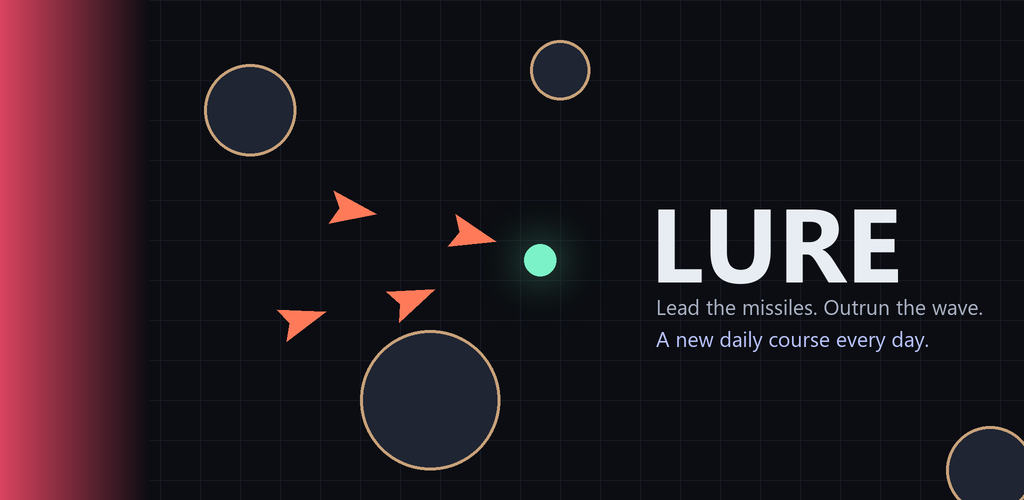
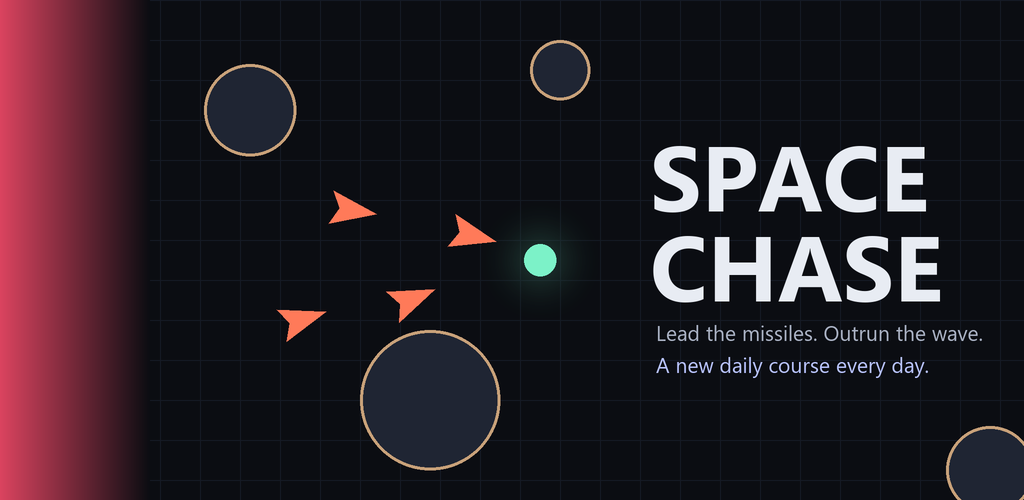
Rename the game to Space Chase; host-agnostic web build and subdomain hosting guide
Player-facing name, app name, store listing, feature graphic and build outputs (release/space-chase.*).
Save-data keys and the app ID stay as they were, so existing saves survive.
API fetches are relative, so a static host never sees requests to its root.

Changed region(s): [[0.625, 0.27, 0.9688, 0.63], [0.625, 0.66, 0.9688, 0.75]]

diff --git a/tools/build-android.js b/tools/build-android.js
@@ -1,6 +1,6 @@
 // Builds the Android app from the already-synced android/ project.
-//   npm run android           → release/lure.apk, a debug build you can install directly (or push with adb)
-//   npm run android:release   → release/lure.aab, the signed bundle Google Play wants (needs android/keystore.properties)
+//   npm run android           → release/space-chase.apk, a debug build you can install directly (or push with adb)
+//   npm run android:release   → release/space-chase.aab, the signed bundle Google Play wants (needs android/keystore.properties)
 // Needs Android Studio: its bundled Java and the SDK in the default places (override with JAVA_HOME / ANDROID_HOME).
 const fs = require('fs'), path = require('path'), { execSync } = require('child_process');
 const ROOT = path.join(__dirname, '..'), ANDROID = path.join(ROOT, 'android');
@@ -23,8 +23,8 @@ const gradlew = path.join(ANDROID, win ? 'gradlew.bat' : 'gradlew');
 execSync(`"${gradlew}" ${release ? 'bundleRelease' : 'assembleDebug'} --console=plain`, { cwd: ANDROID, stdio: 'inherit', env: { ...process.env, JAVA_HOME: javaHome } });
 
 const [from, to] = release
-  ? [path.join(ANDROID, 'app', 'build', 'outputs', 'bundle', 'release', 'app-release.aab'), 'lure.aab']
-  : [path.join(ANDROID, 'app', 'build', 'outputs', 'apk', 'debug', 'app-debug.apk'), 'lure.apk'];
+  ? [path.join(ANDROID, 'app', 'build', 'outputs', 'bundle', 'release', 'app-release.aab'), 'space-chase.aab']
+  : [path.join(ANDROID, 'app', 'build', 'outputs', 'apk', 'debug', 'app-debug.apk'), 'space-chase.apk'];
 fs.mkdirSync(path.join(ROOT, 'release'), { recursive: true });
 fs.copyFileSync(from, path.join(ROOT, 'release', to));
 console.log(`release/${to} (${(fs.statSync(from).size / 1e6).toFixed(1)} MB)`);

diff --git a/serve.js b/serve.js
@@ -34,14 +34,14 @@ http.createServer((req, res) => {
     return res.end(JSON.stringify(readLog()));
   }
   serveFile(req, res);
-}).listen(PORT, HOST, () => console.log(`Lure${DIST ? ' (player build)' : ''} on http://${HOST}:${PORT}`));
+}).listen(PORT, HOST, () => console.log(`Space Chase${DIST ? ' (player build)' : ''} on http://${HOST}:${PORT}`));
 
 function serveFile(req, res) {
   let p = decodeURIComponent(req.url.split('?')[0]);
   if (p === '/') p = '/index.html';
-  // The Android build (npm run android) is offered for download next to the game: open /lure.apk on the phone.
-  const file = p === '/lure.apk' ? path.join(__dirname, 'release', 'lure.apk') : path.join(ROOT, p);
-  if (!file.startsWith(ROOT) && p !== '/lure.apk') return res.writeHead(403).end();
+  // The Android build (npm run android) is offered for download next to the game: open /space-chase.apk on the phone.
+  const file = p === '/space-chase.apk' ? path.join(__dirname, 'release', 'space-chase.apk') : path.join(ROOT, p);
+  if (!file.startsWith(ROOT) && p !== '/space-chase.apk') return res.writeHead(403).end();
   fs.readFile(file, (err, data) => {
     if (err) return res.writeHead(404).end();
     res.writeHead(200, { 'content-type': TYPES[path.extname(file)] || 'application/octet-stream', 'cache-control': 'no-store' });

diff --git a/game/core/storage.js b/game/core/storage.js
@@ -14,7 +14,7 @@ function saveLocal(log) { mem.log = log; try { localStorage.setItem(LOG_KEY, JSO
 export async function loadServerLog() {
   let entries = loadLocal();
   // The highest run number, not the count: runs started but never saved leave gaps.
-  try { entries = await (await fetch('/api/log')).json(); progress.serverRuns = Math.max(entries.length, ...entries.map(e => e.run || 0)); } catch {}
+  try { entries = await (await fetch('api/log')).json(); progress.serverRuns = Math.max(entries.length, ...entries.map(e => e.run || 0)); } catch {}
   for (const e of entries) if (e.version === VERSION && !e.invalid) noteArenaReached(e.telemetry.arenaReached);
   return entries;
 }
@@ -38,7 +38,7 @@ export function nextRunIndex() {
 export function appendEntry(entry) {
   saveLocal([...loadLocal(), entry]);
   progress.serverRuns = Math.max(progress.serverRuns, entry.run);
-  fetch('/api/log', { method: 'POST', headers: { 'content-type': 'application/json' }, body: JSON.stringify(entry) }).catch(() => {});
+  fetch('api/log', { method: 'POST', headers: { 'content-type': 'application/json' }, body: JSON.stringify(entry) }).catch(() => {});
 }
 
 export const runsLogged = () => Math.max(loadLocal().length, progress.serverRuns);

diff --git a/game/index.html b/game/index.html
@@ -7,11 +7,11 @@
 <meta name="mobile-web-app-capable" content="yes">
 <meta name="apple-mobile-web-app-capable" content="yes">
 <meta name="apple-mobile-web-app-status-bar-style" content="black-translucent">
-<meta name="description" content="Lure: you can't attack. Lead the missiles chasing you into rocks, walls and each other. A new daily course every day.">
+<meta name="description" content="Space Chase: you can't attack. Lead the missiles chasing you into rocks, walls and each other. A new daily course every day.">
 <link rel="manifest" href="manifest.webmanifest">
 <link rel="icon" href="icons/icon-192.png">
 <link rel="apple-touch-icon" href="icons/icon-192.png">
-<title>Lure</title>
+<title>Space Chase</title>
 <style>
 :root{--bg:#0b0d12;--fg:#e8ecf3;--dim:#8a93a6;--panel:#151925;--accent:#7cf2c8;--line:#2a3142;--warn:#ff6b5b;--ghost:#b9c4ff}
 html,body{margin:0;height:100%;background:var(--bg);color:var(--fg);font:14px/1.45 system-ui,-apple-system,Segoe UI,sans-serif;overflow:hidden;

diff --git a/game/privacy.html b/game/privacy.html
@@ -3,7 +3,7 @@
 <head>
 <meta charset="utf-8">
 <meta name="viewport" content="width=device-width,initial-scale=1">
-<title>Lure: Privacy Policy</title>
+<title>Space Chase: Privacy Policy</title>
 <style>
 :root{--bg:#0b0d12;--fg:#e8ecf3;--dim:#8a93a6;--accent:#7cf2c8}
 body{margin:0;background:var(--bg);color:var(--fg);font:16px/1.6 system-ui,-apple-system,Segoe UI,sans-serif}
@@ -16,10 +16,10 @@ a{color:var(--accent)}
 </head>
 <body>
 <main>
-<h1>Lure: Privacy Policy</h1>
+<h1>Space Chase: Privacy Policy</h1>
 <p class="dim">Last updated: 4 November 2026</p>
 
-<p>Lure is a single-player game. It does not collect, send or share any personal data.</p>
+<p>Space Chase is a single-player game. It does not collect, send or share any personal data.</p>
 
 <h2>What the game stores</h2>
 <p>Your scores, today's best run (the "ghost"), your day streak and your settings are stored <b>only on your device</b>.

diff --git a/tools/build-web.js b/tools/build-web.js
@@ -44,7 +44,7 @@ fs.writeFileSync(path.join(OUT, 'index.html'), html);
 fs.writeFileSync(path.join(OUT, 'sw.js'), `// Generated by tools/build-web.js. The whole game is precached, so it runs offline.
 // Cache-first for everything, so a page and its modules always come from the same version; a new version is
 // fetched in the background and takes over on the next launch.
-const CACHE = 'lure-${version}', FILES = ${JSON.stringify(['./', ...files])};
+const CACHE = 'space-chase-${version}', FILES = ${JSON.stringify(['./', ...files])};
 self.addEventListener('install', e => { e.waitUntil(caches.open(CACHE).then(c => c.addAll(FILES))); self.skipWaiting(); });
 self.addEventListener('activate', e => {
   e.waitUntil(caches.keys().then(ks => Promise.all(ks.filter(k => k !== CACHE).map(k => caches.delete(k)))).then(() => self.clients.claim()));

diff --git a/game/pods/results-screen/pod.js b/game/pods/results-screen/pod.js
@@ -36,7 +36,7 @@ if (!playtest) {
     if (d?.streak > 1) bits.push(`🔥 ${d.streak} days`);
     $('xLine').textContent = bits.join(' · ');
     const where = run.outcome === 'win' ? 'escaped' : `sector ${run.ai + 1}/${sectors}`;
-    shareText = `LURE daily ${d?.day ?? ''}\n${score.toLocaleString()} · ${where}${s.score?.maxChain > 1 ? ` · chain ×${s.score.maxChain}` : ''}`;
+    shareText = `SPACE CHASE daily ${d?.day ?? ''}\n${score.toLocaleString()} · ${where}${s.score?.maxChain > 1 ? ` · chain ×${s.score.maxChain}` : ''}`;
     $('xShared').hidden = true;
     $('results').classList.add('show');
   });

diff --git a/game/main.js b/game/main.js
@@ -10,7 +10,7 @@ import { emit } from './core/events.js';
 
 // The dev server lists the pod folders on disk; a packaged build (web or app) ships the list as pods.json.
 let pods = [];
-try { pods = await (await fetch('/api/pods')).json(); } catch {
+try { pods = await (await fetch('api/pods')).json(); } catch {
   try { pods = await (await fetch('pods.json')).json(); } catch { console.warn('No pod list; running the bare kernel.'); }
 }
 for (const name of pods) {

diff --git a/game/pods/main-menu/pod.js b/game/pods/main-menu/pod.js
@@ -10,7 +10,7 @@ import { renderCheckpointChips } from '../../core/checkpoint-chips.js';
 content.startScreen = true;
 document.body.insertAdjacentHTML('beforeend', `
 <div id="title" class="overlay show"><div class="card menu">
-  <h1>LURE</h1>
+  <h1>SPACE CHASE</h1>
   <p class="dim">You can't attack. They can. Get out alive.</p>
   <div id="tNotes"></div>
   <button class="main big" id="startBtn">Play</button>

diff --git a/tools/make-store-art.py b/tools/make-store-art.py
@@ -41,9 +41,10 @@ def feature_graphic():
     d.ellipse([(540 - 16) * S, (260 - 16) * S, (540 + 16) * S, (260 + 16) * S], fill=SHIP)
     for x, y, a in [(470, 235, 0.25), (410, 300, -0.4), (350, 210, 0.15), (300, 320, -0.3)]:
         missile(d, x * S, y * S, a, 2.1 * S)
-    d.text((650 * S, 170 * S), 'LURE', font=font(104 * S), fill=(232, 236, 243))
-    d.text((656 * S, 292 * S), 'Lead the missiles. Outrun the wave.', font=font(21 * S, bold=False), fill=(170, 178, 196))
-    d.text((656 * S, 324 * S), 'A new daily course every day.', font=font(21 * S, bold=False), fill=(185, 196, 255))
+    d.text((650 * S, 112 * S), 'SPACE', font=font(92 * S), fill=(232, 236, 243))
+    d.text((650 * S, 202 * S), 'CHASE', font=font(92 * S), fill=(232, 236, 243))
+    d.text((656 * S, 318 * S), 'Lead the missiles. Outrun the wave.', font=font(21 * S, bold=False), fill=(170, 178, 196))
+    d.text((656 * S, 350 * S), 'A new daily course every day.', font=font(21 * S, bold=False), fill=(185, 196, 255))
     img.resize((1024, 500), Image.LANCZOS).save(os.path.join(OUT, 'feature-graphic.png'))
 
 # Play allows at most 2:1 for screenshots; phones are wider, so crop the middle.

diff --git a/PUBLISHING.md b/PUBLISHING.md
@@ -1,4 +1,4 @@
-# Getting Lure onto Google Play
+# Getting Space Chase onto Google Play
 
 The app is ready to package. Everything below is a step **you** take (accounts, keys, payment, publishing). The project
 already has:
@@ -22,47 +22,46 @@ Google re-signs your app with its own key (Play App Signing); you sign uploads w
 terminal, choose a password when it asks, and keep the file **outside this project**:
 
 ```bash
-mkdir -p ~/keys && "/c/Program Files/Android/Android Studio/jbr/bin/keytool.exe" -genkeypair -v -keystore ~/keys/lure-upload.jks -keyalg RSA -keysize 2048 -validity 10000 -alias upload
+mkdir -p ~/keys && "/c/Program Files/Android/Android Studio/jbr/bin/keytool.exe" -genkeypair -v -keystore ~/keys/space-chase-upload.jks -keyalg RSA -keysize 2048 -validity 10000 -alias upload
 ```
 
 Then create `android/keystore.properties` (it's git-ignored, so it never gets committed):
 
 ```properties
-storeFile=C:/Users/user/keys/lure-upload.jks
+storeFile=C:/Users/user/keys/space-chase-upload.jks
 storePassword=YOUR_PASSWORD
 keyAlias=upload
 keyPassword=YOUR_PASSWORD
 ```
 
-**Back up `lure-upload.jks` and the password** (e.g. in a password manager). If it's lost, Play support can reset the
+**Back up `space-chase-upload.jks` and the password** (e.g. in a password manager). If it's lost, Play support can reset the
 upload key, but that takes days.
 
 ## 3. Build the bundle
 ```bash
 npm run android:release
 ```
-This builds the web version, copies it into the app, and writes **`release/lure.aab`**, signed with your upload key.
+This builds the web version, copies it into the app, and writes **`release/space-chase.aab`**, signed with your upload key.
 Every upload needs a higher version: bump `"version"` in `package.json` (e.g. 1.0.0 → 1.0.1) before building again.
 The Android version code follows it automatically (1.0.1 → 10001).
 
 ## 4. Put the privacy policy online
 Play requires a public URL for it.
 1. Replace `CONTACT_EMAIL` in `game/privacy.html` with the address you want people to write to.
-2. Host the web build. The simplest way is GitHub Pages: create a repo (e.g. `lure`), run `npm run build`, push the
-   contents of `dist/` to a `gh-pages` branch, and turn Pages on.
-3. The policy is then at `https://mitchal.github.io/lure/privacy.html`, and the game itself is playable at `https://mitchal.github.io/lure/`.
-4. (I can set this up if you want; it publishes the game.)
+2. Host the web build at **spacechase.mikaelbrandt.com** (see `HOSTING.md`).
+3. The policy is then at `https://spacechase.mikaelbrandt.com/privacy.html`, and the game itself is playable at
+   `https://spacechase.mikaelbrandt.com/`.
 
 ## 5. Create the app in Play Console
 **Create app**, then fill in:
-- App name **Lure**, default language, **Game**, **Free**;
+- App name **Space Chase**, default language, **Game**, **Free**;
 - accept the declarations.
 
 **Free is permanent:** a free app can't later become paid. In-app purchases (cosmetics) are still possible.
 
 Then work through **Dashboard → Set up your app**:
 
-| Section | Answer for Lure |
+| Section | Answer for Space Chase |
 |---|---|
 | Privacy policy | Your hosted `privacy.html` URL |
 | App access | All functionality is available without special access |
@@ -86,7 +85,7 @@ python tools/make-store-art.py shot1.png shot2.png
 I can capture the screenshots from your phone over wireless debugging.
 
 ## 6. Test, then go live
-1. **Internal testing** (Testing → Internal testing): upload `release/lure.aab` and add your own email as a tester. It's
+1. **Internal testing** (Testing → Internal testing): upload `release/space-chase.aab` and add your own email as a tester. It's
    available in minutes. Install it from the Play link and check it.
 2. **Closed testing** is required for new personal accounts:
    - at least **12 testers** must opt in and stay opted in for **14 days in a row**;
@@ -99,11 +98,11 @@ I can capture the screenshots from your phone over wireless debugging.
 ## Updating later
 1. Bump the version in `package.json`.
 2. Run `npm run android:release`.
-3. Upload `release/lure.aab` as a new release in Play Console.
+3. Upload `release/space-chase.aab` as a new release in Play Console.
 
 Updates to the web version are just `npm run build` plus re-uploading `dist/`.
 
 ## Worth knowing
 - The app targets Android 16 (API 36), which meets Play's current target-API requirement. Google raises it about yearly, so expect to update Capacitor (`npm i @capacitor/*@latest`) about once a year.
 - Before adding an online leaderboard, analytics, ads or purchases, update the privacy policy and the Data safety form first.
-- The debug `release/lure.apk` is for sideloading and testing only; Play only accepts the signed `.aab`.
+- The debug `release/space-chase.apk` is for sideloading and testing only; Play only accepts the signed `.aab`.

diff --git a/HOSTING.md b/HOSTING.md
@@ -1,0 +1,35 @@
+# Hosting the web version at spacechase.mikaelbrandt.com
+
+mikaelbrandt.com stays exactly as it is (Porkbun forwarding to your l.ink page). Only the new subdomain points at the
+game. Netlify hosts it for free, without a public repo: you upload the built `dist/` folder.
+
+## First time (about 10 minutes)
+1. Build the player version:
+   ```bash
+   npm run build
+   ```
+2. Go to https://app.netlify.com/drop, sign in (or sign up), and drag the **`dist`** folder onto the page.
+   You get a random address like `https://shiny-otter-1234.netlify.app`. Open it and check that the game runs.
+3. In that Netlify site: **Site configuration → Change site name** to `spacechase` (so it's `spacechase.netlify.app`).
+4. **Domain management → Add a domain** → `spacechase.mikaelbrandt.com`. Netlify says it's an external domain and
+   shows the record to add.
+5. At **Porkbun → mikaelbrandt.com → DNS**, add one record:
+
+   | Type | Host | Answer | TTL |
+   |---|---|---|---|
+   | CNAME | `spacechase` | `spacechase.netlify.app` | 600 |
+
+   Leave the existing records and the URL forwarding alone.
+6. Back in Netlify, wait for the domain to verify, then **HTTPS → Verify DNS / Provision certificate**. It usually
+   takes minutes, at most about an hour.
+
+## Updating
+```bash
+npm run build
+```
+Then, in the Netlify site: **Deploys → drag the `dist` folder** onto the deploy area. Players get the new version the
+next time they open the game (the offline cache is keyed by the version in `package.json`, so bump it for a release).
+
+## What is public
+Only what's in `dist/`: the game itself and `privacy.html`. The source history, taste logs, vision, critic, Android
+project and tools are never uploaded.
